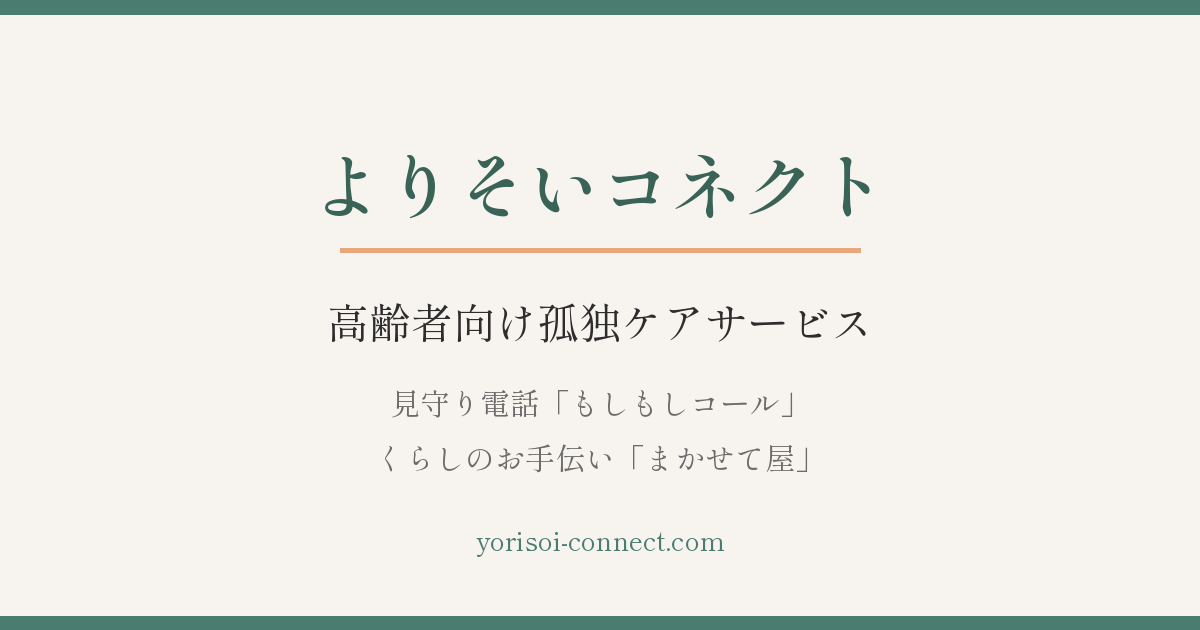
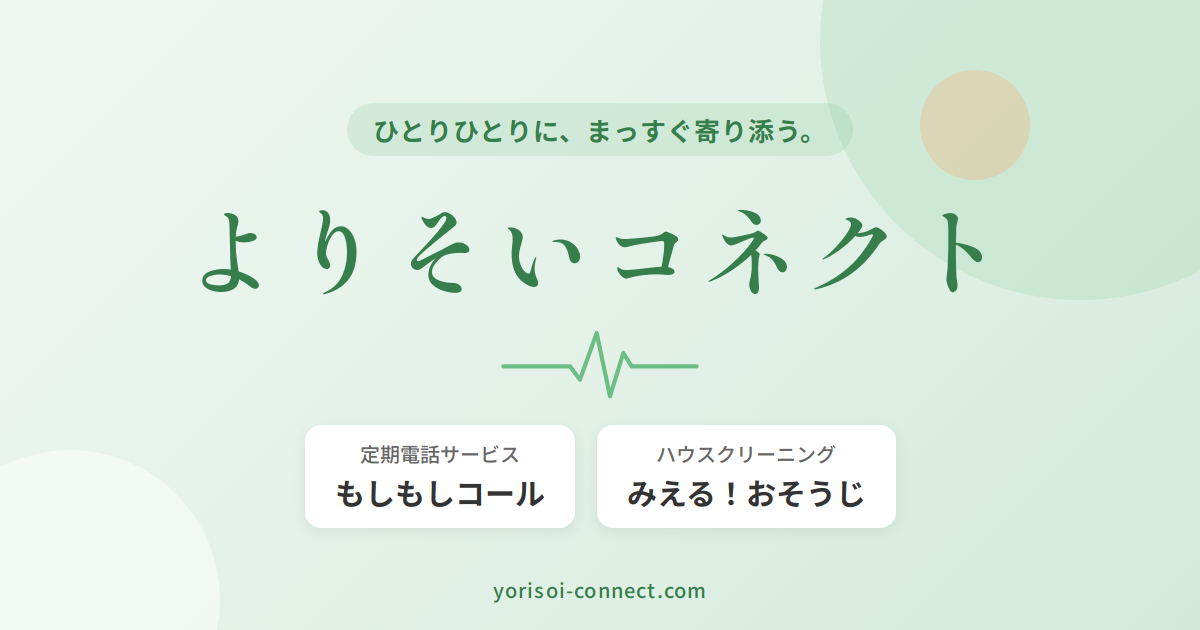
OGP画像を2事業版に作り直し、会社概要とブログにも設定。スプラッシュの線を心電図風に

diff --git a/index.html b/index.html
@@ -74,11 +74,11 @@
       transform: translateY(10px);
       transition: opacity 0.45s ease, transform 0.45s ease;
     }
-    /* 左から右へ描かれる心拍のような線（小さな谷・大きな山・小さな谷） */
+    /* 左から右へ描かれる心電図のような線 */
     .splash-line {
       display: block;
       width: 120px;
-      height: 36px;
+      height: 48px;
       overflow: visible;
     }
     .splash-line path {
@@ -499,7 +499,7 @@
   <!-- スプラッシュオーバーレイ -->
   <div id="splash-overlay" aria-hidden="true">
     <span class="splash-logo">よりそいコネクト</span>
-    <svg class="splash-line" viewBox="0 0 120 36"><path pathLength="1" d="M2 22H39C42 22 43 29 45.5 29S49 22 52 22C54.5 22 54 5 60 5S65.5 22 68 22C71 22 72 29 74.5 29S78 22 81 22H118"/></svg>
+    <svg class="splash-line" viewBox="0 0 120 48"><path pathLength="1" d="M2 26H42L48 34L58 6L66 44L74 18L79 26H118"/></svg>
     <span class="splash-catch">ひとりひとりに、まっすぐ寄り添う。</span>
   </div>
 

diff --git a/moshimoshi-call/blog/moshimoshi-call-site-open/index.html b/moshimoshi-call/blog/moshimoshi-call-site-open/index.html
@@ -16,6 +16,10 @@
   <meta property="og:title" content="もしもしコールの公式サイトをオープンしました">
   <meta property="og:description" content="一人暮らしの親御さまへの定期電話サービス「もしもしコール」の公式サイトを公開しました。">
   <meta property="og:url" content="https://yorisoi-connect.com/moshimoshi-call/blog/moshimoshi-call-site-open/">
+  <meta property="og:image" content="https://yorisoi-connect.com/assets/images/ogp.png">
+  <meta property="og:image:width" content="1200">
+  <meta property="og:image:height" content="630">
+  <meta name="twitter:card" content="summary_large_image">
 
   <link rel="preconnect" href="https://fonts.googleapis.com">
   <link rel="preconnect" href="https://fonts.gstatic.com" crossorigin>

diff --git a/company/index.html b/company/index.html
@@ -16,6 +16,10 @@
   <meta property="og:title" content="会社概要｜よりそいコネクト">
   <meta property="og:description" content="定期電話サービス「もしもしコール」とハウスクリーニング「みえる！おそうじ」を運営する、よりそいコネクトの会社概要ページです。">
   <meta property="og:url" content="https://yorisoi-connect.com/company/">
+  <meta property="og:image" content="https://yorisoi-connect.com/assets/images/ogp.png">
+  <meta property="og:image:width" content="1200">
+  <meta property="og:image:height" content="630">
+  <meta name="twitter:card" content="summary_large_image">
 
   <link rel="preconnect" href="https://fonts.googleapis.com">
   <link rel="preconnect" href="https://fonts.gstatic.com" crossorigin>

diff --git a/moshimoshi-call/blog/index.html b/moshimoshi-call/blog/index.html
@@ -16,6 +16,10 @@
   <meta property="og:title" content="ブログ｜よりそいコネクト">
   <meta property="og:description" content="よりそいコネクトのお知らせ・コラム・スタッフの声をお届けします。">
   <meta property="og:url" content="https://yorisoi-connect.com/moshimoshi-call/blog/">
+  <meta property="og:image" content="https://yorisoi-connect.com/assets/images/ogp.png">
+  <meta property="og:image:width" content="1200">
+  <meta property="og:image:height" content="630">
+  <meta name="twitter:card" content="summary_large_image">
 
   <link rel="preconnect" href="https://fonts.googleapis.com">
   <link rel="preconnect" href="https://fonts.gstatic.com" crossorigin>

diff --git a/moshimoshi-call/blog/_template/index.html b/moshimoshi-call/blog/_template/index.html
@@ -39,6 +39,10 @@
   <meta property="og:title" content="【記事タイトル】">
   <meta property="og:description" content="【記事の要約（短め）】">
   <meta property="og:url" content="https://yorisoi-connect.com/moshimoshi-call/blog/【記事スラッグ】/">
+  <meta property="og:image" content="https://yorisoi-connect.com/assets/images/ogp.png">
+  <meta property="og:image:width" content="1200">
+  <meta property="og:image:height" content="630">
+  <meta name="twitter:card" content="summary_large_image">
 
   <link rel="preconnect" href="https://fonts.googleapis.com">
   <link rel="preconnect" href="https://fonts.gstatic.com" crossorigin>
